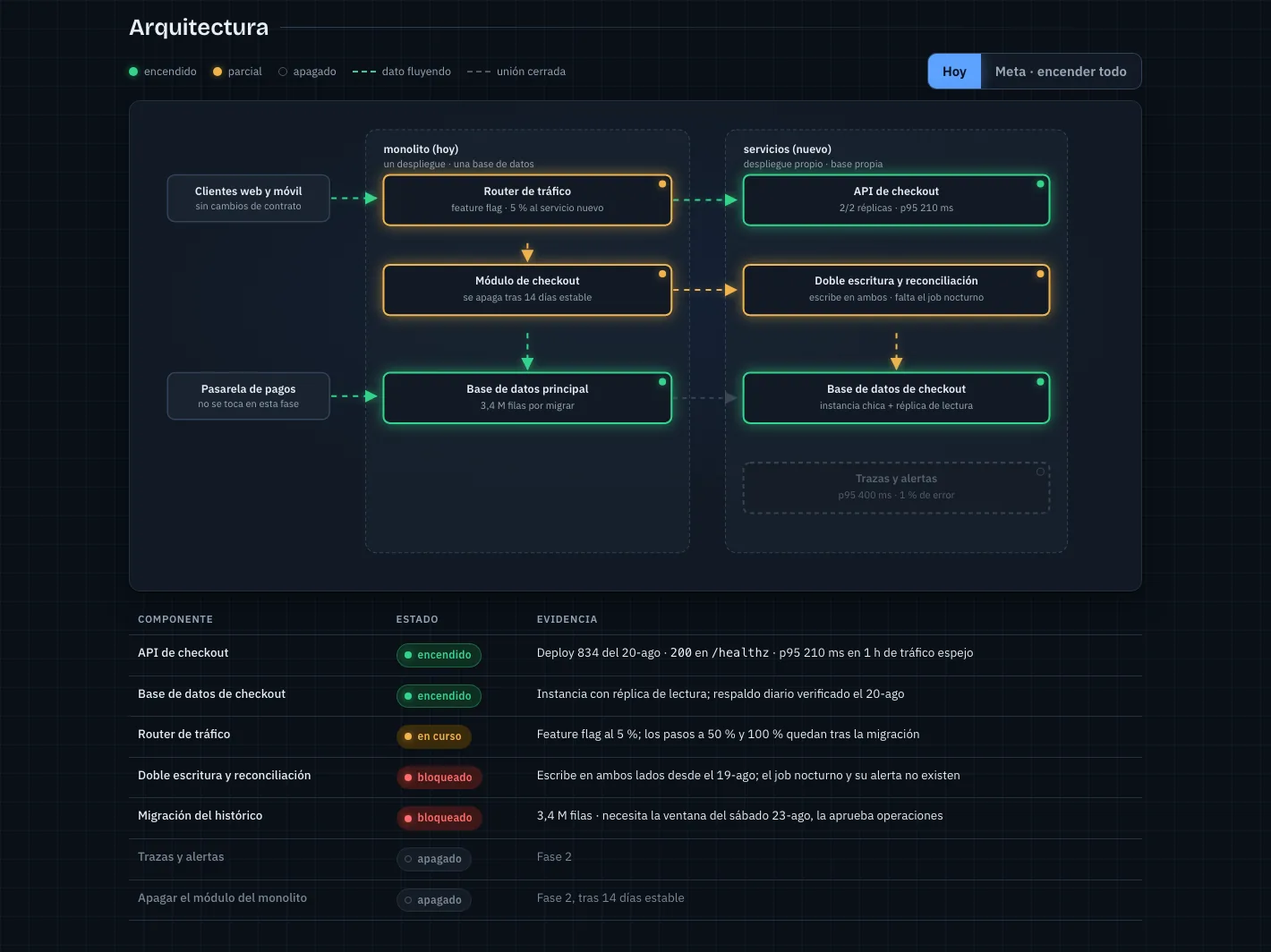
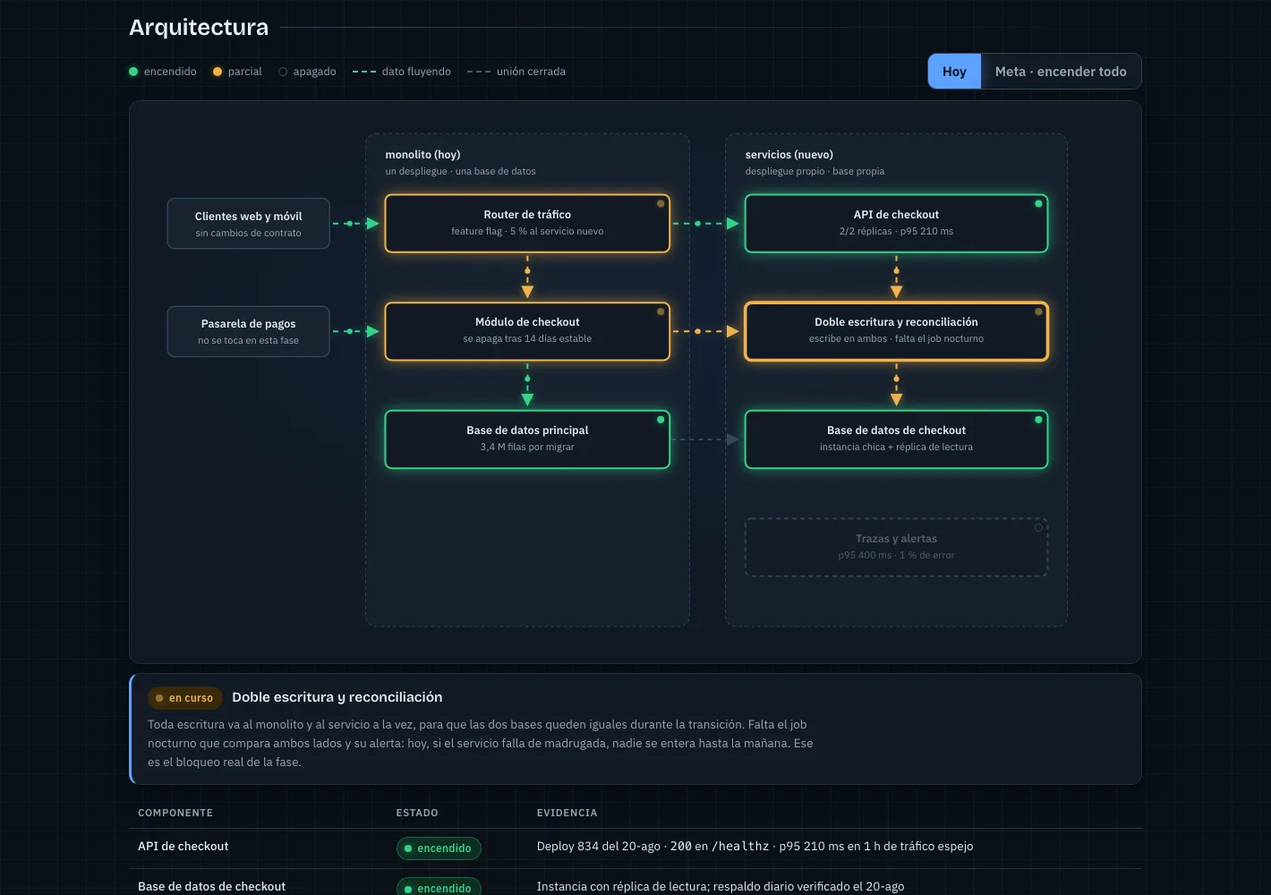
fix(diagrama): marcadores en Meta, escalonado reversible, paquetes sin salto; feat: detalle por componente

diff --git a/demo/index.html b/demo/index.html
@@ -174,9 +174,9 @@ section{margin-bottom:48px}
 .diagram text.h{font-weight:600;font-size:12.5px}
 .diagram .zone{fill:color-mix(in srgb,var(--surface-2) 70%,transparent);stroke:var(--line-strong);stroke-width:1;stroke-dasharray:4 3}
 .diagram .ext{fill:var(--surface-2);stroke:var(--line-strong);stroke-width:1.5}
-.diagram g[data-s]{transition:opacity .5s;transition-delay:calc(var(--i,0)*70ms)}
-.diagram g[data-s] .box{fill:var(--surface);stroke-width:2;transition:stroke .5s,filter .5s,fill .5s;transition-delay:calc(var(--i,0)*70ms)}
-.diagram g[data-s] .led{transition:fill .5s,filter .5s;transition-delay:calc(var(--i,0)*70ms)}
+.diagram g[data-s]{transition:opacity .38s;transition-delay:calc(var(--i,0)*45ms)}
+.diagram g[data-s] .box{fill:var(--surface);stroke-width:2;transition:stroke .38s,filter .38s,fill .38s;transition-delay:calc(var(--i,0)*45ms)}
+.diagram g[data-s] .led{transition:fill .38s,filter .38s;transition-delay:calc(var(--i,0)*45ms)}
 /* ON */
 .diagram g[data-s="done"] .box{stroke:var(--on);filter:drop-shadow(0 0 8px var(--on-glow))}
 .diagram g[data-s="done"] .led{fill:var(--on);filter:drop-shadow(0 0 5px var(--on-glow))}
@@ -195,14 +195,30 @@ section{margin-bottom:48px}
 .diagram .pkt{fill:var(--on);display:none}
 .diagram .pkt.warn{fill:var(--warn)}
 .diagram .pkt.show{display:block}
-/* META: everything lit in accent, staggered */
+/* META: todo encendido en acento, escalonado.
+   Ojo con la especificidad: .diagram .edge.live[data-s] pesa más que .diagram.meta .edge,
+   por eso las reglas de meta repiten el selector completo o los marcadores ámbar sobreviven. */
 .diagram.meta g[data-s]{opacity:1}
 .diagram.meta g[data-s] .box{stroke:var(--accent);stroke-dasharray:none;fill:var(--surface);filter:drop-shadow(0 0 8px var(--accent-glow))}
 .diagram.meta g[data-s] text{fill:var(--ink)}
 .diagram.meta g[data-s] .led{fill:var(--accent);stroke:none;filter:drop-shadow(0 0 5px var(--accent-glow));animation:none}
-.diagram.meta .edge{stroke:var(--accent);marker-end:url(#arr-accent);opacity:1;stroke-dasharray:6 6;animation:flow 1.1s linear infinite;filter:drop-shadow(0 0 4px var(--accent-glow))}
-.diagram.meta .pkt{display:block;fill:var(--accent)}
+.diagram.meta .edge,.diagram.meta .edge.live[data-s="doing"]{stroke:var(--accent);marker-end:url(#arr-accent);opacity:1;stroke-dasharray:6 6;animation:flow 1.1s linear infinite;filter:drop-shadow(0 0 4px var(--accent-glow))}
+.diagram.meta .pkt,.diagram.meta .pkt.warn{display:block;fill:var(--accent)}
 @media (prefers-reduced-motion: reduce){.diagram .pkt{display:none!important}}
+/* cajas consultables: clic o Enter abren el detalle bajo el diagrama */
+.diagram g[data-info]{cursor:pointer}
+.diagram g[data-info] .box{transition:stroke .38s,filter .38s,fill .38s,stroke-width .18s}
+.diagram g[data-info]:hover .box{stroke-width:3.2}
+.diagram g[data-info].sel .box{stroke-width:3.6}
+.diagram g[data-info]:focus{outline:none}
+.diagram g[data-info]:focus-visible .box{stroke-width:3.6;stroke-dasharray:none}
+.info{margin-top:10px;padding:14px 18px;border-left:3px solid var(--line-strong);transition:border-color .25s}
+.info.on{border-left-color:var(--accent)}
+.info .i-head{display:flex;align-items:center;gap:10px;margin-bottom:6px;flex-wrap:wrap}
+.info h4{font-family:var(--font-display);font-size:15.5px;font-weight:600;margin:0}
+.info p{margin:0;color:var(--muted);font-size:13.5px;max-width:92ch}
+.info .hint{color:var(--faint);font-size:13px}
+.info code{font-family:var(--font-mono);font-size:12px;background:var(--surface-2);padding:1px 5px;border-radius:4px;color:var(--ink)}
 .comp{width:100%;border-collapse:collapse;font-size:13.5px;margin-top:14px}
 .comp th{text-align:left;font-size:11.5px;letter-spacing:.06em;text-transform:uppercase;color:var(--muted);padding:8px 10px;border-bottom:1px solid var(--line)}
 .comp td{padding:9px 10px;border-bottom:1px solid var(--line);vertical-align:top}
@@ -383,40 +399,50 @@ footer code{font-family:var(--font-mono);font-size:12px}
          done/doing se animan con paquetes; todo queda punteada y apagada.
        · Zonas (clúster, VPC, cuenta) con <rect class="zone">; lo que no cambia, con <rect class="ext">.
        · viewBox ancho (1100x560 típico); min-width:760px lo hace scrollear en móvil sin romperse. -->
-  <svg viewBox="0 0 1100 520" role="img" aria-label="Diagrama del checkout: monolito, servicio nuevo y sus datos, con el estado de cada pieza">
+  <svg viewBox="0 0 1100 600" role="img" aria-label="Diagrama del checkout: monolito, servicio nuevo y sus datos, con el estado de cada pieza">
     <defs>
       <marker id="arr-on" viewBox="0 0 10 10" refX="9" refY="5" markerWidth="7" markerHeight="7" orient="auto-start-reverse"><path d="M0 0L10 5L0 10z" fill="var(--on)"/></marker>
       <marker id="arr-warn" viewBox="0 0 10 10" refX="9" refY="5" markerWidth="7" markerHeight="7" orient="auto-start-reverse"><path d="M0 0L10 5L0 10z" fill="var(--warn)"/></marker>
       <marker id="arr-off" viewBox="0 0 10 10" refX="9" refY="5" markerWidth="7" markerHeight="7" orient="auto-start-reverse"><path d="M0 0L10 5L0 10z" fill="var(--off)"/></marker>
       <marker id="arr-accent" viewBox="0 0 10 10" refX="9" refY="5" markerWidth="7" markerHeight="7" orient="auto-start-reverse"><path d="M0 0L10 5L0 10z" fill="var(--accent)"/></marker>
     </defs>
-    <rect class="zone" x="250" y="20" width="360" height="470" rx="12"/>
-    <text x="270" y="46" class="h">monolito (hoy)</text><text x="270" y="62" class="t">un despliegue · una base de datos</text>
-    <rect class="zone" x="650" y="20" width="380" height="470" rx="12"/>
-    <text x="670" y="46" class="h">servicios (nuevo)</text><text x="670" y="62" class="t">despliegue propio · base propia</text>
 
-    <path id="e1" class="edge" data-s="done" d="M212 96H262"/>
-    <path id="e2" class="edge" data-s="doing" d="M430 146V166"/>
-    <path id="e3" class="edge" data-s="done" d="M592 98H662"/>
-    <path id="e4" class="edge" data-s="done" d="M430 246V286"/>
-    <path id="e5" class="edge" data-s="doing" d="M592 198H662"/>
-    <path id="e6" class="edge" data-s="doing" d="M840 246V286"/>
-    <path id="e7" class="edge" data-s="todo" d="M592 318H662"/>
-    <path id="e9" class="edge" data-s="done" d="M212 316H262"/>
+    <rect class="zone" x="250" y="24" width="360" height="548" rx="12"/>
+    <text x="272" y="52" class="h">monolito (hoy)</text><text x="272" y="70" class="t">un despliegue · una base de datos</text>
+    <rect class="zone" x="650" y="24" width="380" height="548" rx="12"/>
+    <text x="672" y="52" class="h">servicios (nuevo)</text><text x="672" y="70" class="t">despliegue propio · base propia</text>
 
-    <rect class="ext" x="30" y="70" width="180" height="52" rx="8"/><text x="120" y="92" text-anchor="middle" class="h">Clientes web y móvil</text><text x="120" y="108" text-anchor="middle" class="t">sin cambios de contrato</text>
-    <rect class="ext" x="30" y="290" width="180" height="52" rx="8"/><text x="120" y="312" text-anchor="middle" class="h">Pasarela de pagos</text><text x="120" y="328" text-anchor="middle" class="t">no se toca en esta fase</text>
+    <path id="e1" class="edge" data-s="done"  d="M212 124H264"/>
+    <path id="e2" class="edge" data-s="doing" d="M430 158V206"/>
+    <path id="e3" class="edge" data-s="done"  d="M590 124H664"/>
+    <path id="e4" class="edge" data-s="done"  d="M430 278V326"/>
+    <path id="e5" class="edge" data-s="doing" d="M590 244H664"/>
+    <path id="e6" class="edge" data-s="doing" d="M840 158V206"/>
+    <path id="e7" class="edge" data-s="doing" d="M840 278V326"/>
+    <path id="e8" class="edge" data-s="todo"  d="M590 364H664"/>
+    <path id="e9" class="edge" data-s="done"  d="M212 244H264"/>
 
-    <g data-s="doing"><rect class="box" x="270" y="70" width="320" height="56" rx="7"/><text x="430" y="92" text-anchor="middle" class="h">Router de tráfico</text><text x="430" y="110" text-anchor="middle" class="t">feature flag · 5 % al servicio nuevo</text></g>
-    <g data-s="doing"><rect class="box" x="270" y="170" width="320" height="56" rx="7"/><text x="430" y="192" text-anchor="middle" class="h">Módulo de checkout</text><text x="430" y="210" text-anchor="middle" class="t">se apaga tras 14 días estable</text></g>
-    <g data-s="done"><rect class="box" x="270" y="290" width="320" height="56" rx="7"/><text x="430" y="312" text-anchor="middle" class="h">Base de datos principal</text><text x="430" y="330" text-anchor="middle" class="t">3,4 M filas por migrar</text></g>
+    <rect class="ext" x="30" y="96" width="180" height="56" rx="8"/><text x="120" y="120" text-anchor="middle" class="h">Clientes web y móvil</text><text x="120" y="138" text-anchor="middle" class="t">sin cambios de contrato</text>
+    <rect class="ext" x="30" y="216" width="180" height="56" rx="8"/><text x="120" y="240" text-anchor="middle" class="h">Pasarela de pagos</text><text x="120" y="258" text-anchor="middle" class="t">no se toca en esta fase</text>
 
-    <g data-s="done"><rect class="box" x="670" y="70" width="340" height="56" rx="7"/><text x="840" y="92" text-anchor="middle" class="h">API de checkout</text><text x="840" y="110" text-anchor="middle" class="t">2/2 réplicas · p95 210 ms</text></g>
-    <g data-s="doing"><rect class="box" x="670" y="170" width="340" height="56" rx="7"/><text x="840" y="192" text-anchor="middle" class="h">Doble escritura y reconciliación</text><text x="840" y="210" text-anchor="middle" class="t">escribe en ambos · falta el job nocturno</text></g>
-    <g data-s="done"><rect class="box" x="670" y="290" width="340" height="56" rx="7"/><text x="840" y="312" text-anchor="middle" class="h">Base de datos de checkout</text><text x="840" y="330" text-anchor="middle" class="t">instancia chica + réplica de lectura</text></g>
-    <g data-s="todo"><rect class="box" x="670" y="390" width="340" height="56" rx="7"/><text x="840" y="412" text-anchor="middle" class="h">Trazas y alertas</text><text x="840" y="430" text-anchor="middle" class="t">p95 400 ms · 1 % de error</text></g>
+    <g data-s="doing" data-title="Router de tráfico" data-info="Decide qué porcentaje del checkout atiende el servicio nuevo. Hoy está en <code>5 %</code>: el resto sigue entrando al monolito. Los saltos a 50 % y 100 % quedan bloqueados hasta que el histórico esté migrado, porque un usuario que compró antes de la migración no encontraría su pedido en el servicio nuevo.">
+      <rect class="box" x="272" y="92" width="316" height="64" rx="7"/><text x="430" y="118" text-anchor="middle" class="h">Router de tráfico</text><text x="430" y="136" text-anchor="middle" class="t">feature flag · 5 % al servicio nuevo</text></g>
+    <g data-s="doing" data-title="Módulo de checkout (monolito)" data-info="El código original. Sigue siendo la fuente de verdad para el 95 % del tráfico y para todo el histórico. Se apaga —y se borra, junto con su tabla— recién 14 días después de que el corte esté al 100 % sin incidentes.">
+      <rect class="box" x="272" y="212" width="316" height="64" rx="7"/><text x="430" y="238" text-anchor="middle" class="h">Módulo de checkout</text><text x="430" y="256" text-anchor="middle" class="t">se apaga tras 14 días estable</text></g>
+    <g data-s="done" data-title="Base de datos principal" data-info="La base del monolito. Guarda las 3,4 M de filas de checkout que faltan migrar. La migración necesita la ventana de mantenimiento del sábado: copiarlas en caliente dejaría inconsistencias con la doble escritura.">
+      <rect class="box" x="272" y="332" width="316" height="64" rx="7"/><text x="430" y="358" text-anchor="middle" class="h">Base de datos principal</text><text x="430" y="376" text-anchor="middle" class="t">3,4 M filas por migrar</text></g>
+
+    <g data-s="done" data-title="API de checkout" data-info="El servicio nuevo, con su contrato <code>OpenAPI 3.1</code> congelado y revisado con el equipo de front. Dos réplicas, p95 de 210 ms medido en una hora de tráfico espejo. Despliega solo, con aprobación humana antes de staging.">
+      <rect class="box" x="672" y="92" width="336" height="64" rx="7"/><text x="840" y="118" text-anchor="middle" class="h">API de checkout</text><text x="840" y="136" text-anchor="middle" class="t">2/2 réplicas · p95 210 ms</text></g>
+    <g data-s="doing" data-title="Doble escritura y reconciliación" data-info="Toda escritura va al monolito y al servicio a la vez, para que las dos bases queden iguales durante la transición. Falta el job nocturno que compara ambos lados y su alerta: hoy, si el servicio falla de madrugada, nadie se entera hasta la mañana. Ese es el bloqueo real de la fase.">
+      <rect class="box" x="672" y="212" width="336" height="64" rx="7"/><text x="840" y="238" text-anchor="middle" class="h">Doble escritura y reconciliación</text><text x="840" y="256" text-anchor="middle" class="t">escribe en ambos · falta el job nocturno</text></g>
+    <g data-s="done" data-title="Base de datos de checkout" data-info="Base propia del servicio: instancia chica con una réplica de lectura. Respaldo diario verificado el 20-ago. Recibe las escrituras nuevas desde el 19-ago; le falta el histórico.">
+      <rect class="box" x="672" y="332" width="336" height="64" rx="7"/><text x="840" y="358" text-anchor="middle" class="h">Base de datos de checkout</text><text x="840" y="376" text-anchor="middle" class="t">instancia chica + réplica de lectura</text></g>
+    <g data-s="todo" data-title="Trazas y alertas" data-info="Fase 2. Propagación de contexto entre monolito y servicio para poder seguir una compra completa, más alertas de p95 sobre 400 ms y tasa de error sobre 1 %. Sin esto no se sube el corte del 5 %: no habría cómo ver que algo se rompió.">
+      <rect class="box" x="672" y="452" width="336" height="64" rx="7"/><text x="840" y="478" text-anchor="middle" class="h">Trazas y alertas</text><text x="840" y="496" text-anchor="middle" class="t">p95 400 ms · 1 % de error</text></g>
   </svg>
   </div>
+  <div class="card info" id="diagram-info" role="status" aria-live="polite"><p class="hint">Toca un componente del diagrama para ver qué es y en qué estado está.</p></div>
   <div class="tblwrap"><table class="comp">
     <thead><tr><th>Componente</th><th>Estado</th><th>Evidencia</th></tr></thead>
     <tbody>
@@ -683,25 +709,47 @@ footer code{font-family:var(--font-mono);font-size:12px}
   function decorateDiagram(){
     const svg=$('#diagram svg');
     // stagger index for power-on
-    svg.querySelectorAll('g[data-s]').forEach((g,i)=>{g.style.setProperty('--i',i);
+    svg.querySelectorAll('g[data-s]').forEach((g,i)=>{g.style.setProperty('--i',i); g.dataset.i0=i;
       const r=g.querySelector('rect.box'); const led=document.createElementNS(NS,'circle'); led.setAttribute('class','led'); led.setAttribute('r','4');
       led.setAttribute('cx',(+r.getAttribute('x'))+(+r.getAttribute('width'))-10); led.setAttribute('cy',(+r.getAttribute('y'))+10); g.appendChild(led);});
     // packets on edges
     svg.querySelectorAll('path.edge').forEach((p,i)=>{ const s=p.dataset.s; if(s==='done'||s==='doing') p.classList.add('live');
-      const len=p.getTotalLength(); const dur=Math.max(1.2,len/70).toFixed(2);
-      for(let k=0;k<2;k++){ const c=document.createElementNS(NS,'circle'); c.setAttribute('r','3'); c.setAttribute('class','pkt'+(s==='doing'?' warn':'')); c.dataset.s=s;
-        const am=document.createElementNS(NS,'animateMotion'); am.setAttribute('dur',dur+'s'); am.setAttribute('repeatCount','indefinite'); am.setAttribute('begin',(k*dur/2)+'s');
+      const len=p.getTotalLength();
+      // dos paquetes en una arista corta se ven como un parpadeo, no como un flujo
+      const n=len<90?1:2, dur=Math.max(1.6,len/70).toFixed(2);
+      for(let k=0;k<n;k++){ const c=document.createElementNS(NS,'circle'); c.setAttribute('r','3'); c.setAttribute('class','pkt'+(s==='doing'?' warn':'')); c.dataset.s=s;
+        const am=document.createElementNS(NS,'animateMotion'); am.setAttribute('dur',dur+'s'); am.setAttribute('repeatCount','indefinite'); am.setAttribute('begin',(k*dur/n)+'s');
         const mp=document.createElementNS(NS,'mpath'); mp.setAttributeNS('http://www.w3.org/1999/xlink','href','#'+p.id); mp.setAttribute('href','#'+p.id); am.appendChild(mp); c.appendChild(am); svg.appendChild(c); } });
     updatePackets(false);
     if(REDUCED&&svg.pauseAnimations)svg.pauseAnimations();
   }
   function updatePackets(meta){ document.querySelectorAll('#diagram .pkt').forEach(c=>{ const on=meta||c.dataset.s==='done'||c.dataset.s==='doing'; c.classList.toggle('show',on&&!REDUCED); }); }
-  function setView(meta){ const d=$('#diagram'); if(meta&&!d.classList.contains('meta')){ // power-on sequence: reorder stagger by y position
-      const gs=[...d.querySelectorAll('g[data-s]')].sort((a,b)=>(+a.querySelector('rect').getAttribute('y'))-(+b.querySelector('rect').getAttribute('y'))); gs.forEach((g,i)=>g.style.setProperty('--i',i)); }
+  function setView(meta){ const d=$('#diagram');
+    // "Meta" enciende de arriba hacia abajo; "Hoy" vuelve al orden del documento.
+    // Sin restaurar --i, el escalonado quedaba invertido y las cajas saltaban al alternar.
+    const gs=[...d.querySelectorAll('g[data-s]')];
+    if(meta){ gs.slice().sort((a,b)=>(+a.querySelector('rect').getAttribute('y'))-(+b.querySelector('rect').getAttribute('y'))).forEach((g,i)=>g.style.setProperty('--i',i)) }
+    else { gs.forEach(g=>g.style.setProperty('--i',g.dataset.i0||0)) }
     d.classList.toggle('meta',meta); updatePackets(meta);
     $('#v-hoy').setAttribute('aria-pressed',String(!meta)); $('#v-meta').setAttribute('aria-pressed',String(meta)); store('view',meta?'meta':'hoy'); }
   $('#v-hoy').addEventListener('click',()=>setView(false));
   $('#v-meta').addEventListener('click',()=>setView(true));
+
+  // ---------- diagram: detalle por componente ----------
+  function wireBoxes(){
+    const box=$('#diagram-info'); if(!box)return;
+    const gs=[...document.querySelectorAll('#diagram g[data-s]')].filter(g=>g.dataset.info);
+    if(!gs.length){box.style.display='none';return}
+    gs.forEach(g=>{
+      const name=g.dataset.title||(g.querySelector('text.h')||{}).textContent||'componente';
+      g.setAttribute('tabindex','0'); g.setAttribute('role','button'); g.setAttribute('aria-label',name+': ver detalle');
+      const open=()=>{ gs.forEach(x=>x.classList.toggle('sel',x===g));
+        box.classList.add('on');
+        box.innerHTML='<div class="i-head"><span class="chip '+g.dataset.s+'">'+SLABEL[g.dataset.s]+'</span><h4>'+name+'</h4></div><p>'+g.dataset.info+'</p>'; };
+      g.addEventListener('click',open);
+      g.addEventListener('keydown',e=>{ if(e.key==='Enter'||e.key===' '){e.preventDefault();open()} });
+    });
+  }
 
   // ---------- reveal on scroll + nav highlight ----------
   function observe(){
@@ -726,14 +774,18 @@ footer code{font-family:var(--font-mono);font-size:12px}
     const dia=$('#diagram'), svg=$('#diagram svg');
     const io=new IntersectionObserver(es=>es.forEach(e=>{
       e.target.classList.toggle('anim-off',!e.isIntersecting);
-      if(e.target===dia&&svg&&svg.pauseAnimations&&!REDUCED){e.isIntersecting?svg.unpauseAnimations():svg.pauseAnimations()}
-    }),{rootMargin:'120px 0px'});
+      if(e.target===dia&&svg&&svg.pauseAnimations&&!REDUCED){
+        // reanudar sin más deja SMIL desfasado del CSS y los paquetes pegan un salto:
+        // se reinicia el reloj para que todos vuelvan a entrar juntos
+        if(e.isIntersecting){svg.unpauseAnimations();if(svg.setCurrentTime)svg.setCurrentTime(0)}else{svg.pauseAnimations()}
+      }
+    }),{rootMargin:'300px 0px'});
     ['#diagram','.band','header.top','#phases','#gantt-box','#days-chart'].forEach(sel=>{const el=document.querySelector(sel);if(el)io.observe(el)});
   }
 
   // ---------- init ----------
   ['hpd','days','start','blockstart','buffer','rate'].forEach(id=>{const el=$('#'+id);const v=load(id,null);if(v!==null)el.value=v;el.addEventListener('input',()=>{store(id,el.value);renderMeters();renderGantt()})});
-  decorateDiagram(); if(load('view','hoy')==='meta')setView(true);
+  decorateDiagram(); wireBoxes(); if(load('view','hoy')==='meta')setView(true);
   renderPhases(); renderGantt(); observe(); idle();
   setTimeout(renderMeters,150);
 })();

diff --git a/skills/tablero/assets/template.html b/skills/tablero/assets/template.html
@@ -166,9 +166,9 @@ section{margin-bottom:48px}
 .diagram text.h{font-weight:600;font-size:12.5px}
 .diagram .zone{fill:color-mix(in srgb,var(--surface-2) 70%,transparent);stroke:var(--line-strong);stroke-width:1;stroke-dasharray:4 3}
 .diagram .ext{fill:var(--surface-2);stroke:var(--line-strong);stroke-width:1.5}
-.diagram g[data-s]{transition:opacity .5s;transition-delay:calc(var(--i,0)*70ms)}
-.diagram g[data-s] .box{fill:var(--surface);stroke-width:2;transition:stroke .5s,filter .5s,fill .5s;transition-delay:calc(var(--i,0)*70ms)}
-.diagram g[data-s] .led{transition:fill .5s,filter .5s;transition-delay:calc(var(--i,0)*70ms)}
+.diagram g[data-s]{transition:opacity .38s;transition-delay:calc(var(--i,0)*45ms)}
+.diagram g[data-s] .box{fill:var(--surface);stroke-width:2;transition:stroke .38s,filter .38s,fill .38s;transition-delay:calc(var(--i,0)*45ms)}
+.diagram g[data-s] .led{transition:fill .38s,filter .38s;transition-delay:calc(var(--i,0)*45ms)}
 /* ON */
 .diagram g[data-s="done"] .box{stroke:var(--on);filter:drop-shadow(0 0 8px var(--on-glow))}
 .diagram g[data-s="done"] .led{fill:var(--on);filter:drop-shadow(0 0 5px var(--on-glow))}
@@ -187,14 +187,30 @@ section{margin-bottom:48px}
 .diagram .pkt{fill:var(--on);display:none}
 .diagram .pkt.warn{fill:var(--warn)}
 .diagram .pkt.show{display:block}
-/* META: everything lit in accent, staggered */
+/* META: todo encendido en acento, escalonado.
+   Ojo con la especificidad: .diagram .edge.live[data-s] pesa más que .diagram.meta .edge,
+   por eso las reglas de meta repiten el selector completo o los marcadores ámbar sobreviven. */
 .diagram.meta g[data-s]{opacity:1}
 .diagram.meta g[data-s] .box{stroke:var(--accent);stroke-dasharray:none;fill:var(--surface);filter:drop-shadow(0 0 8px var(--accent-glow))}
 .diagram.meta g[data-s] text{fill:var(--ink)}
 .diagram.meta g[data-s] .led{fill:var(--accent);stroke:none;filter:drop-shadow(0 0 5px var(--accent-glow));animation:none}
-.diagram.meta .edge{stroke:var(--accent);marker-end:url(#arr-accent);opacity:1;stroke-dasharray:6 6;animation:flow 1.1s linear infinite;filter:drop-shadow(0 0 4px var(--accent-glow))}
-.diagram.meta .pkt{display:block;fill:var(--accent)}
+.diagram.meta .edge,.diagram.meta .edge.live[data-s="doing"]{stroke:var(--accent);marker-end:url(#arr-accent);opacity:1;stroke-dasharray:6 6;animation:flow 1.1s linear infinite;filter:drop-shadow(0 0 4px var(--accent-glow))}
+.diagram.meta .pkt,.diagram.meta .pkt.warn{display:block;fill:var(--accent)}
 @media (prefers-reduced-motion: reduce){.diagram .pkt{display:none!important}}
+/* cajas consultables: clic o Enter abren el detalle bajo el diagrama */
+.diagram g[data-info]{cursor:pointer}
+.diagram g[data-info] .box{transition:stroke .38s,filter .38s,fill .38s,stroke-width .18s}
+.diagram g[data-info]:hover .box{stroke-width:3.2}
+.diagram g[data-info].sel .box{stroke-width:3.6}
+.diagram g[data-info]:focus{outline:none}
+.diagram g[data-info]:focus-visible .box{stroke-width:3.6;stroke-dasharray:none}
+.info{margin-top:10px;padding:14px 18px;border-left:3px solid var(--line-strong);transition:border-color .25s}
+.info.on{border-left-color:var(--accent)}
+.info .i-head{display:flex;align-items:center;gap:10px;margin-bottom:6px;flex-wrap:wrap}
+.info h4{font-family:var(--font-display);font-size:15.5px;font-weight:600;margin:0}
+.info p{margin:0;color:var(--muted);font-size:13.5px;max-width:92ch}
+.info .hint{color:var(--faint);font-size:13px}
+.info code{font-family:var(--font-mono);font-size:12px;background:var(--surface-2);padding:1px 5px;border-radius:4px;color:var(--ink)}
 .comp{width:100%;border-collapse:collapse;font-size:13.5px;margin-top:14px}
 .comp th{text-align:left;font-size:11.5px;letter-spacing:.06em;text-transform:uppercase;color:var(--muted);padding:8px 10px;border-bottom:1px solid var(--line)}
 .comp td{padding:9px 10px;border-bottom:1px solid var(--line);vertical-align:top}
@@ -371,6 +387,9 @@ footer code{font-family:var(--font-mono);font-size:12px}
   <!-- REGLAS DEL DIAGRAMA
        · Un <g data-s="done|doing|todo"> por componente, con <rect class="box"> + <text class="h"> + <text class="t">.
          El LED se inyecta por JS en la esquina del rect; no lo dibujes a mano.
+       · data-title + data-info hacen la caja consultable: al tocarla se abre el detalle bajo el diagrama.
+         data-info explica QUÉ es y POR QUÉ está en ese estado, no repite el subtítulo. Acepta <code>.
+       · Deja aire: cajas de 64 px con 56 px entre ellas, y 56+ px entre la última caja y el borde de la zona.
        · Aristas ANTES de los nodos: <path id="eN" class="edge" data-s="done|doing|todo" d="..."/>.
          done/doing se animan con paquetes; todo queda punteada y apagada.
        · Zonas (clúster, VPC, cuenta) con <rect class="zone">; lo que no cambia, con <rect class="ext">.
@@ -386,9 +405,11 @@ footer code{font-family:var(--font-mono);font-size:12px}
     <text x="280" y="42" class="h">{{zona}}</text><text x="280" y="58" class="t">{{atributos de la zona}}</text>
     <path id="e1" class="edge" data-s="done" d="M180 53H296"/>
     <rect class="ext" x="30" y="30" width="150" height="46" rx="8"/><text x="105" y="50" text-anchor="middle" class="h">{{Externo}}</text><text x="105" y="66" text-anchor="middle" class="t">{{no cambia}}</text>
-    <g data-s="done"><rect class="box" x="296" y="30" width="228" height="46" rx="7"/><text x="410" y="50" text-anchor="middle" class="h">{{Componente}}</text><text x="410" y="66" text-anchor="middle" class="t">{{evidencia corta}}</text></g>
+    <g data-s="done" data-title="{{Componente}}" data-info="{{Qué es, qué hace y por qué está en este estado. Una o dos frases con evidencia: <code>ids</code>, cifras, de qué depende.}}">
+      <rect class="box" x="296" y="30" width="228" height="64" rx="7"/><text x="410" y="56" text-anchor="middle" class="h">{{Componente}}</text><text x="410" y="74" text-anchor="middle" class="t">{{evidencia corta}}</text></g>
   </svg>
   </div>
+  <div class="card info" id="diagram-info" role="status" aria-live="polite"><p class="hint">Toca un componente del diagrama para ver qué es y en qué estado está.</p></div>
   <div class="tblwrap"><table class="comp">
     <thead><tr><th>Componente</th><th>Estado</th><th>Evidencia</th></tr></thead>
     <tbody>
@@ -634,25 +655,47 @@ footer code{font-family:var(--font-mono);font-size:12px}
   function decorateDiagram(){
     const svg=$('#diagram svg');
     // stagger index for power-on
-    svg.querySelectorAll('g[data-s]').forEach((g,i)=>{g.style.setProperty('--i',i);
+    svg.querySelectorAll('g[data-s]').forEach((g,i)=>{g.style.setProperty('--i',i); g.dataset.i0=i;
       const r=g.querySelector('rect.box'); const led=document.createElementNS(NS,'circle'); led.setAttribute('class','led'); led.setAttribute('r','4');
       led.setAttribute('cx',(+r.getAttribute('x'))+(+r.getAttribute('width'))-10); led.setAttribute('cy',(+r.getAttribute('y'))+10); g.appendChild(led);});
     // packets on edges
     svg.querySelectorAll('path.edge').forEach((p,i)=>{ const s=p.dataset.s; if(s==='done'||s==='doing') p.classList.add('live');
-      const len=p.getTotalLength(); const dur=Math.max(1.2,len/70).toFixed(2);
-      for(let k=0;k<2;k++){ const c=document.createElementNS(NS,'circle'); c.setAttribute('r','3'); c.setAttribute('class','pkt'+(s==='doing'?' warn':'')); c.dataset.s=s;
-        const am=document.createElementNS(NS,'animateMotion'); am.setAttribute('dur',dur+'s'); am.setAttribute('repeatCount','indefinite'); am.setAttribute('begin',(k*dur/2)+'s');
+      const len=p.getTotalLength();
+      // dos paquetes en una arista corta se ven como un parpadeo, no como un flujo
+      const n=len<90?1:2, dur=Math.max(1.6,len/70).toFixed(2);
+      for(let k=0;k<n;k++){ const c=document.createElementNS(NS,'circle'); c.setAttribute('r','3'); c.setAttribute('class','pkt'+(s==='doing'?' warn':'')); c.dataset.s=s;
+        const am=document.createElementNS(NS,'animateMotion'); am.setAttribute('dur',dur+'s'); am.setAttribute('repeatCount','indefinite'); am.setAttribute('begin',(k*dur/n)+'s');
         const mp=document.createElementNS(NS,'mpath'); mp.setAttributeNS('http://www.w3.org/1999/xlink','href','#'+p.id); mp.setAttribute('href','#'+p.id); am.appendChild(mp); c.appendChild(am); svg.appendChild(c); } });
     updatePackets(false);
     if(REDUCED&&svg.pauseAnimations)svg.pauseAnimations();
   }
   function updatePackets(meta){ document.querySelectorAll('#diagram .pkt').forEach(c=>{ const on=meta||c.dataset.s==='done'||c.dataset.s==='doing'; c.classList.toggle('show',on&&!REDUCED); }); }
-  function setView(meta){ const d=$('#diagram'); if(meta&&!d.classList.contains('meta')){ // power-on sequence: reorder stagger by y position
-      const gs=[...d.querySelectorAll('g[data-s]')].sort((a,b)=>(+a.querySelector('rect').getAttribute('y'))-(+b.querySelector('rect').getAttribute('y'))); gs.forEach((g,i)=>g.style.setProperty('--i',i)); }
+  function setView(meta){ const d=$('#diagram');
+    // "Meta" enciende de arriba hacia abajo; "Hoy" vuelve al orden del documento.
+    // Sin restaurar --i, el escalonado quedaba invertido y las cajas saltaban al alternar.
+    const gs=[...d.querySelectorAll('g[data-s]')];
+    if(meta){ gs.slice().sort((a,b)=>(+a.querySelector('rect').getAttribute('y'))-(+b.querySelector('rect').getAttribute('y'))).forEach((g,i)=>g.style.setProperty('--i',i)) }
+    else { gs.forEach(g=>g.style.setProperty('--i',g.dataset.i0||0)) }
     d.classList.toggle('meta',meta); updatePackets(meta);
     $('#v-hoy').setAttribute('aria-pressed',String(!meta)); $('#v-meta').setAttribute('aria-pressed',String(meta)); store('view',meta?'meta':'hoy'); }
   $('#v-hoy').addEventListener('click',()=>setView(false));
   $('#v-meta').addEventListener('click',()=>setView(true));
+
+  // ---------- diagram: detalle por componente ----------
+  function wireBoxes(){
+    const box=$('#diagram-info'); if(!box)return;
+    const gs=[...document.querySelectorAll('#diagram g[data-s]')].filter(g=>g.dataset.info);
+    if(!gs.length){box.style.display='none';return}
+    gs.forEach(g=>{
+      const name=g.dataset.title||(g.querySelector('text.h')||{}).textContent||'componente';
+      g.setAttribute('tabindex','0'); g.setAttribute('role','button'); g.setAttribute('aria-label',name+': ver detalle');
+      const open=()=>{ gs.forEach(x=>x.classList.toggle('sel',x===g));
+        box.classList.add('on');
+        box.innerHTML='<div class="i-head"><span class="chip '+g.dataset.s+'">'+SLABEL[g.dataset.s]+'</span><h4>'+name+'</h4></div><p>'+g.dataset.info+'</p>'; };
+      g.addEventListener('click',open);
+      g.addEventListener('keydown',e=>{ if(e.key==='Enter'||e.key===' '){e.preventDefault();open()} });
+    });
+  }
 
   // ---------- reveal on scroll + nav highlight ----------
   function observe(){
@@ -677,14 +720,18 @@ footer code{font-family:var(--font-mono);font-size:12px}
     const dia=$('#diagram'), svg=$('#diagram svg');
     const io=new IntersectionObserver(es=>es.forEach(e=>{
       e.target.classList.toggle('anim-off',!e.isIntersecting);
-      if(e.target===dia&&svg&&svg.pauseAnimations&&!REDUCED){e.isIntersecting?svg.unpauseAnimations():svg.pauseAnimations()}
-    }),{rootMargin:'120px 0px'});
+      if(e.target===dia&&svg&&svg.pauseAnimations&&!REDUCED){
+        // reanudar sin más deja SMIL desfasado del CSS y los paquetes pegan un salto:
+        // se reinicia el reloj para que todos vuelvan a entrar juntos
+        if(e.isIntersecting){svg.unpauseAnimations();if(svg.setCurrentTime)svg.setCurrentTime(0)}else{svg.pauseAnimations()}
+      }
+    }),{rootMargin:'300px 0px'});
     ['#diagram','.band','header.top','#phases','#gantt-box','#days-chart'].forEach(sel=>{const el=document.querySelector(sel);if(el)io.observe(el)});
   }
 
   // ---------- init ----------
   ['hpd','days','start','blockstart','buffer','rate'].forEach(id=>{const el=$('#'+id);const v=load(id,null);if(v!==null)el.value=v;el.addEventListener('input',()=>{store(id,el.value);renderMeters();renderGantt()})});
-  decorateDiagram(); if(load('view','hoy')==='meta')setView(true);
+  decorateDiagram(); wireBoxes(); if(load('view','hoy')==='meta')setView(true);
   renderPhases(); renderGantt(); observe(); idle();
   setTimeout(renderMeters,150);
 })();

diff --git a/README.md b/README.md
@@ -23,7 +23,7 @@ Le pides el estado de un proyecto y publica una página con:
 
 - **Cuatro medidores** arriba: avance por esfuerzo y por tareas, horas hechas, horas por hacer con buffer, y el foco o bloqueo del momento.
 - **Dónde vamos** en tres columnas: encendido · bloqueado · apagado, y la acción concreta que sigue.
-- **Un diagrama** donde cada componente está literalmente encendido, parcial o apagado, con paquetes viajando por las conexiones vivas — y un toggle *Meta* que enciende todo para mostrar hacia dónde va.
+- **Un diagrama** donde cada componente está literalmente encendido, parcial o apagado, con paquetes viajando por las conexiones vivas. Cada caja se puede tocar para leer qué es y por qué está así, y un toggle *Meta* enciende todo para mostrar hacia dónde va.
 - **Backlog** en fases plegables, con horas hechas y estimadas por tarea.
 - **Costos** incrementales, con rango bajo/alto y la palanca que domina la factura.
 - **Carta Gantt simulable**: el lector mueve horas por día, días hábiles y fecha de inicio, y ve moverse la fecha de cierre.
@@ -43,7 +43,7 @@ Las capturas de abajo salen de ahí.
 
 ![Diagrama de arquitectura con estado por componente](docs/img/diagrama-dark.webp)
 
-*El diagrama no ilustra: informa. Verde encendido con evidencia, ámbar parcial, punteado apagado, y paquetes viajando solo por las conexiones vivas. El toggle "Meta" enciende todo para mostrar hacia dónde va el proyecto.*
+*El diagrama no ilustra: informa. Verde encendido con evidencia, ámbar parcial, punteado apagado, y paquetes viajando solo por las conexiones vivas. Toca cualquier caja —o llega con el tabulador y pulsa Enter— y abajo se explica qué es y por qué está en ese estado. El toggle "Meta" enciende todo para mostrar hacia dónde va el proyecto.*
 
 ![Backlog por fases con horas](docs/img/backlog-dark.webp)
 

diff --git a/skills/tablero/references/sections.md b/skills/tablero/references/sections.md
@@ -30,7 +30,9 @@ Diagrama SVG con estado por componente y toggle **Hoy / Meta**. Reglas:
 - Aristas **antes** de los nodos: `<path id="eN" class="edge" data-s="…" d="…"/>`. `done` y `doing` reciben paquetes animados; `todo` queda punteada.
 - Zonas lógicas con `<rect class="zone">`; lo que no cambia con `<rect class="ext">` (sin estado, sin LED).
 - `viewBox` ~1100×560 y `min-width:760px`: en móvil scrollea en su contenedor, la página nunca.
-- La vista **Meta** enciende todo en el color de acento con un barrido de arriba hacia abajo. Es el argumento visual de "hacia dónde vamos"; no la saques.
+- **Aire**: cajas de 64 px de alto con 56 px entre ellas, y al menos 56 px entre la última caja y el borde de la zona. Apretadas se leen como una lista, no como un sistema.
+- **`data-title` + `data-info` en cada `<g>`** hacen la caja consultable: al tocarla (clic, Enter o Espacio) se abre el detalle bajo el diagrama. `data-info` responde qué es y **por qué está en ese estado**, no repite el subtítulo; una o dos frases, con cifras y de qué depende. Sin `data-info`, la caja no es interactiva.
+- La vista **Meta** enciende todo en el color de acento con un barrido de arriba hacia abajo. Es el argumento visual de "hacia dónde vamos"; no la saques. Si agregas reglas de estado, recuerda que `.diagram .edge.live[data-s="doing"]` pesa más que `.diagram.meta .edge`: la regla de meta tiene que repetir el selector completo o el ámbar sobrevive al cambio de vista.
 
 Debajo, tabla `comp` de tres columnas: Componente · Estado (chip) · **Evidencia verificable** (id de run, fecha, salida). Sin adjetivos.
 

diff --git a/skills/tablero/SKILL.md b/skills/tablero/SKILL.md
@@ -51,7 +51,7 @@ Do NOT load for a one-line status answer, a commit log summary, or a plain check
 2. Copy `assets/template.html` to the working file (scratchpad, or where the user asks). For a local file, wrap it with `assets/local-wrapper.html` — the template is a fragment and only the Artifact tool supplies the html/head/body shell.
 3. Fill the `// ---------- data ----------` block only: `PHASES`, `SESSIONS`, `COSTS`, `DONE_BARS`, `TODAY`, `PHASE_ORDER`, `COST_NOTE`, `EVAL_RECO`, `EVAL_EXTRA`. See `references/data-contract.md`.
 4. Replace every `{{...}}` placeholder in the HTML. Search for `{{` and confirm zero matches before publishing.
-5. Adjust the diagram per `references/sections.md`; the LED, packets and power-on view are injected by JS — only author `<g data-s>`, `<path class="edge">`, `<rect class="zone">`.
+5. Adjust the diagram per `references/sections.md`; the LED, packets and power-on view are injected by JS — only author `<g data-s>`, `<path class="edge">`, `<rect class="zone">`. Give every component a `data-title` and a `data-info` explaining what it is and why it sits in that state: that is what the reader gets when tapping the box.
 6. Open the local file to verify it renders before handing it over. Fonts come from Google Fonts and need network; the fallback stack must keep it readable offline.
 7. Only when publishing: use the Artifact tool with a `favicon` stable across redeploys, `title` = short project name, `description` = one line.
 8. Report the file path (or URL), what is estimated and what is verified.
